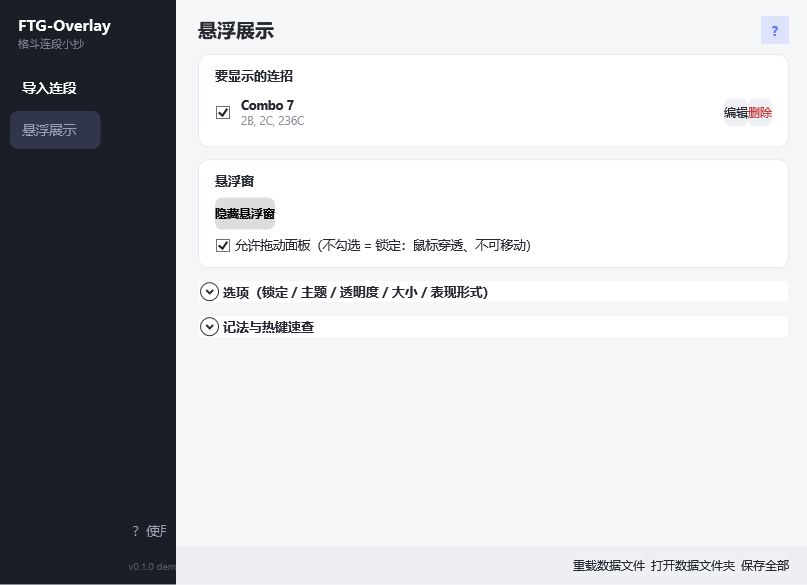
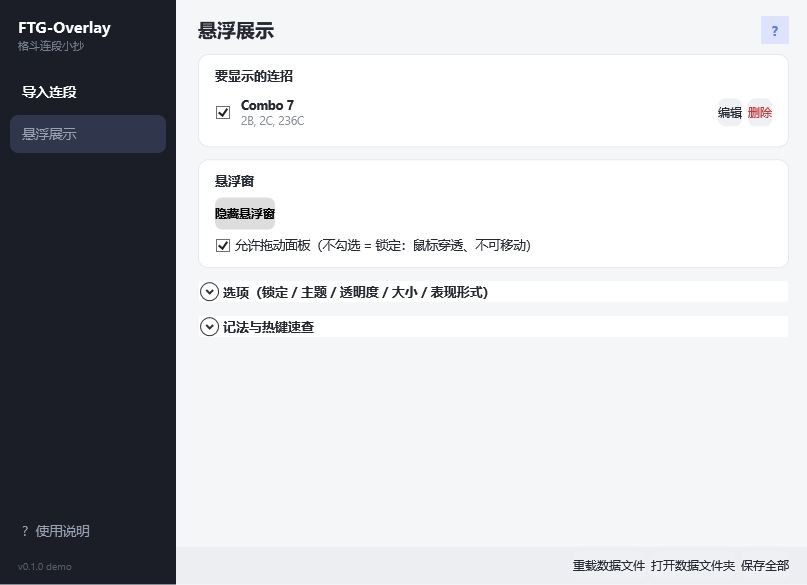
修复：启动时两页同时可见叠层（补初始 ActivateNav）；侧边栏改 Grid 布局防裁切；列表按钮间距

diff --git a/src-demo/ManagerWindow.cs b/src-demo/ManagerWindow.cs
@@ -75,6 +75,9 @@ namespace FTGOverlayDemo
             };
             _updating = Math.Max(0, _updating - 1);
 
+            // 初始页面：导入（必须显式调用一次，否则两页会同时可见叠在一起）
+            ActivateNav(0);
+
             // 首次运行：自动弹出一次使用说明，并告知以后在哪里看
             if (_store.Settings.FirstRun)
             {
@@ -97,30 +100,38 @@ namespace FTGOverlayDemo
 
             // ---- 左侧深色导航栏 ----
             var sidebar = new Border { Background = new SolidColorBrush(CSidebar) };
-            var dock = new DockPanel();
-            var navStack = new StackPanel { Margin = new Thickness(0, 14, 0, 0) };
-            navStack.Children.Add(new TextBlock
+            var sdock = new Grid();
+            sdock.RowDefinitions.Add(new RowDefinition { Height = GridLength.Auto });
+            sdock.RowDefinitions.Add(new RowDefinition { Height = new GridLength(1, GridUnitType.Star) });
+            sdock.RowDefinitions.Add(new RowDefinition { Height = GridLength.Auto });
+
+            var titleStack = new StackPanel { Margin = new Thickness(18, 16, 0, 14) };
+            titleStack.Children.Add(new TextBlock
             {
                 Text = "FTG-Overlay",
                 FontSize = 16,
                 FontWeight = FontWeights.Bold,
-                Foreground = Brushes.White,
-                Margin = new Thickness(18, 0, 0, 1)
+                Foreground = Brushes.White
             });
-            navStack.Children.Add(new TextBlock
+            titleStack.Children.Add(new TextBlock
             {
                 Text = "格斗连段小抄",
                 FontSize = 11,
                 Foreground = new SolidColorBrush(Color.FromRgb(0x76, 0x7C, 0x90)),
-                Margin = new Thickness(18, 0, 0, 16)
+                Margin = new Thickness(0, 1, 0, 0)
             });
+            Grid.SetRow(titleStack, 0);
+            sdock.Children.Add(titleStack);
+
+            var navStack = new StackPanel { Margin = new Thickness(0, 4, 0, 0) };
             _navImport = NavItem("导入连段", true);
             _navShow = NavItem("悬浮展示", false);
             navStack.Children.Add(_navImport);
             navStack.Children.Add(_navShow);
-            dock.Children.Add(navStack);
+            Grid.SetRow(navStack, 1);
+            sdock.Children.Add(navStack);
 
-            var bottom = new StackPanel { VerticalAlignment = VerticalAlignment.Bottom, Margin = new Thickness(0, 0, 0, 12) };
+            var bottom = new StackPanel { Margin = new Thickness(0, 0, 0, 12) };
             var help = NavItem("?  使用说明", false);
             help.MouseLeftButtonDown += (s, e) => ShowHelp();
             bottom.Children.Add(help);
@@ -131,9 +142,9 @@ namespace FTGOverlayDemo
                 Foreground = new SolidColorBrush(Color.FromRgb(0x56, 0x5B, 0x6B)),
                 Margin = new Thickness(18, 8, 0, 0)
             });
-            DockPanel.SetDock(bottom, Dock.Bottom);
-            dock.Children.Add(bottom);
-            sidebar.Child = dock;
+            Grid.SetRow(bottom, 2);
+            sdock.Children.Add(bottom);
+            sidebar.Child = sdock;
             Grid.SetColumn(sidebar, 0);
             root.Children.Add(sidebar);
 
@@ -784,6 +795,7 @@ namespace FTGOverlayDemo
             Grid.SetColumn(edit, 2);
             var del = Btn2("删除", (s, e) => DeleteCombo(c));
             del.Foreground = new SolidColorBrush(Color.FromRgb(0xC8, 0x3B, 0x3B));
+            del.Margin = new Thickness(6, 0, 0, 0);
             Grid.SetColumn(del, 3);
 
             g.Children.Add(show); g.Children.Add(info); g.Children.Add(edit); g.Children.Add(del);
@@ -915,7 +927,7 @@ namespace FTGOverlayDemo
         {
             try
             {
-                ActivateNav(0);
+                // 第一张：不切换页面，验证启动时的原始状态（应只有导入页可见）
                 Shoot(_shotPath);
                 ActivateNav(1);
                 Shoot(System.IO.Path.Combine(

diff --git a/docs/02-需求文档.md b/docs/02-需求文档.md
@@ -65,6 +65,7 @@
 - **MVP 内置两份记法档案**（覆盖你的两种输入习惯）：
   1. **「KOF · DreamCancel 记法」**：A/B/C/D 按钮体系；`cr.` / `st.` / `cl.` / `j.` 姿态前缀；`qcf` / `qcb` / `dp` / `rdp` / `hcf` / `hcb` 等指令词；`(N)` 帧数标注（如 `df+D(1)`）；KOF XIII 专属术语（HD 发动、Drive Cancel 等）与 2002UM 专属术语（MAX 发动等）分游戏配置。记法定义参考：[DreamCancel《KOF XIII/Controls》](https://www.dreamcancel.com/wiki/The_King_of_Fighters_XIII/Controls)。
   2. **「通用数字（numpad）记法」**：1–9 方向数字（含 `626` 这类常用写法）+ 按钮体系（KOF 下映射 A/B/C/D；SF6 下映射 LP/MP/HP…）。
+  3. **「2002UM 攻略记法」（第六轮新增）**：`c5C` / `f5C`（近立 / 远立，无方向箭头）、`5`＝中立站立（不画箭头）、`•`＝同一必杀的派生键（如 `236D•D`）、`xxx`＝超杀取消、双按钮 `B+C`、`(N)` 段数标注（徽标只显示数字）、**空格与逗号均为步骤分隔符**。示例：`c5C xx 3D xx 63214B+C xx 236D•D, 421D`。参考：[Play More KOF 2002UM 攻略](https://playmorekof.blogspot.com/2020/10/king-of-fighters-2002-unlimited-match.html)。
 - 两份档案解析结果汇入**同一套令牌流**，渲染完全一致（详见第 7 节）。
 - 你后续提供的任何表示方式，以新增/扩充档案的方式接入，**不改核心代码**。
 - SF6 档案、MK11 档案按需后补。注意 MK11 记法体系差异大（按钮用 1/2/3/4、方向用 F/B/U/D 缩写），届时单独设计。
@@ -300,8 +301,16 @@
 - **锁定/解锁交互增强**（FR-04 已更新）：面板右侧吸附小锁头图标（独立小窗、永不穿透、任何状态可点击、不抢焦点）；管理器增加「面板移动与否」选项；锁定状态持久化。已实现并交付。
 - **管理窗口与悬浮窗关联**：关闭管理窗口 = 退出整个程序。已实现。
 
+- **管理器重构为双标签页**（FR-01 已更新）：「导入」（游戏/角色 + 连招信息/标题/备注，标题留空自动命名 Combo x）+「展示」（**连招列表为主体**，选项折叠收纳）。已实现并交付。
+
 ### 第五轮确认（2026-09-28）
 
 - **全局热键精简**（FR-06 已更新）：仅保留 `Ctrl+Alt+Q` 退出；单键热键全部移除（打字时误触发/吞键）。
-- **悬浮窗下方说明文字取消**（FR-06 已更新）：说明移至管理器「展示」页折叠区。
-- **管理器重构为双标签页**（FR-01 已更新）：「导入」（游戏/角色 + 连招信息/标题/备注，标题留空自动命名 Combo x）+「展示」（**连招列表为主体**，选项折叠收纳）。已实现并交付。
+- **悬浮窗下方说明文字取消**（FR-06 已更新）：说明移至管理器折叠区。
+- **管理器重构为双标签页**：「导入」（录入）+「展示」（连招列表 + 悬浮窗设置）。已实现并交付。
+
+### 第六轮确认（2026-09-29）
+
+- **管理器界面重设计**（参照 ZCode / Codex 等 agent 应用风格）：深色侧边栏导航（导入连段 / 悬浮展示）+ 浅色卡片布局 + 圆角控件 + 蓝紫强调色；界面长说明文字全部移除，集中到右上角「?」帮助窗口，**首次运行自动弹出一次**；「展示」页 = 连招列表（主体）+ 选项（默认折叠）+ 记法速查（折叠）。
+- **解析引擎升级**：支持 2002UM 攻略记法（见 FR-02）；解析自测扩至 29 项全部通过。
+- 已本地提交；GitHub 同步待用户指示。
